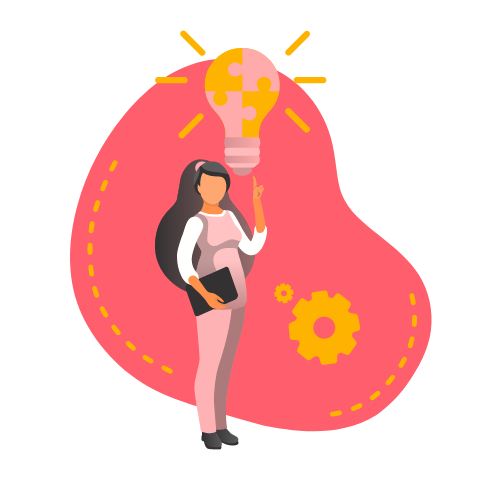
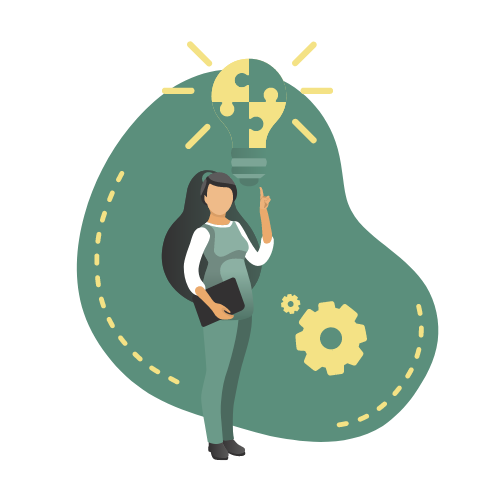
Updates CSS

diff --git a/src/style.css b/src/style.css
@@ -1,19 +1,18 @@
 :root {
   --neutral: #f8eddd;
-  --coral: #e8a598;
-  --yellow: #feb300;
-  --pink: #f4ded3;
-  --matcha: #737440;
-  --light-green: #c5c79d;
-  --brown: #a17a56;
+  --main: #95b171;
+  --coral: #b15254;
+  --bright: #f2e291;
+  --dark: #678e7e;
+  --accent: #eba566;
 }
 
 .about-me-title {
-  color: var(--brown);
+  color: var(--accent);
 }
 
 .hero {
-  background: var(--neutral);
+  background: var(--main);
   padding: 20px;
   width: 100%;
   height: auto;
@@ -24,23 +23,23 @@
 }
 
 .hero-button {
-  background-color: var(--coral);
+  background-color: var(--bright);
   padding: 12px;
   line-height: 30px;
   margin-top: 30px;
   border-radius: 5px;
-  color: var(--neutral);
+  color: var(--dark);
 }
 
 .hero-button:hover {
-  border: 1px solid var(--coral);
-  background: var(--neutral);
-  color: var(--coral);
+  border: 1px solid var(--accent);
+  background: var(--main);
+  color: (--accent);
   text-decoration: none;
 }
 .about-button {
-  border: 1px solid var(--matcha);
-  color: 1px solid var(--matcha);
+  border: 1px solid var(--coral);
+  color: 1px solid var(--coral);
   text-align: center;
   padding: 12px;
   line-height: 30px;
@@ -48,7 +47,7 @@
 }
 
 .about-button:hover {
-  background: var(--matcha);
+  background: var(--main);
   color: white;
   text-decoration: none;
 }
@@ -58,7 +57,7 @@
 }
 
 .navbar {
-  background: var(--neutral);
+  background: var(--main);
 }
 
 .navbar-brand,
@@ -69,7 +68,7 @@
 
 h1 {
   font-size: 90px;
-  color: var(--matcha);
+  color: var(--bright);
 }
 h1,
 h2 {
@@ -91,4 +90,40 @@ p {
   line-height: 1.5;
   padding: 80px;
   margin: 50px;
+}
+
+@media (max-width: 1140px) {
+  .hero-description {
+    font-size: 12px;
+  }
+
+  .about-blurb {
+    padding-top: 25px;
+    margin: 0px;
+    text-align: center;
+  }
+  .about-image {
+    max-width: 90%;
+  }
+}
+
+@media (max-width: 800px) {
+  .about-image {
+    padding-top: 100px;
+  }
+}
+
+@media (max-width: 600px) {
+  .hero-description {
+    font-size: 12px;
+  }
+
+  .about-blurb {
+    padding-top: 25px;
+    margin: 0px;
+    text-align: center;
+  }
+  .about-image {
+    display: none;
+  }
 }

diff --git a/index.html b/index.html
@@ -78,7 +78,14 @@
     </div>
 
     <div class="row">
-      <div class="col about-blurb">
+      <div class="col-4 col-s-12">
+        <img
+          src="src/images/problem-solve.png"
+          class="about-image"
+          alt="women thinking of solution"
+        />
+      </div>
+      <div class="col-6 col-s-12 about-blurb">
         <h2 class="about-me-title">A bit about me</h2>
         <p>
           I absolutely love problem-solving, whether it's designing a website,
@@ -89,14 +96,6 @@
           head-on and seeing the end result that makes me feel fulfilled.
         </p>
         <a href="#" class="about-button"> See My Work</a>
-      </div>
-
-      <div class="col">
-        <img
-          src="src/images/problem-solve.png"
-          class="img-fluid about-image"
-          alt="women thinking of solution"
-        />
       </div>
     </div>
   </body>
